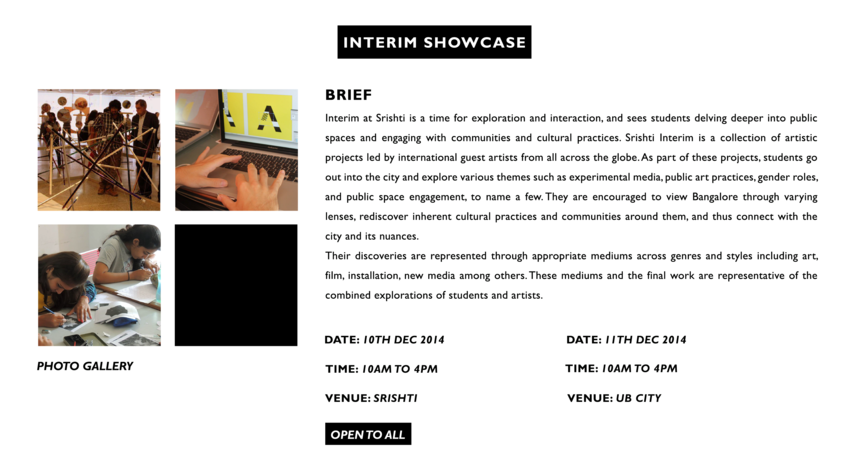
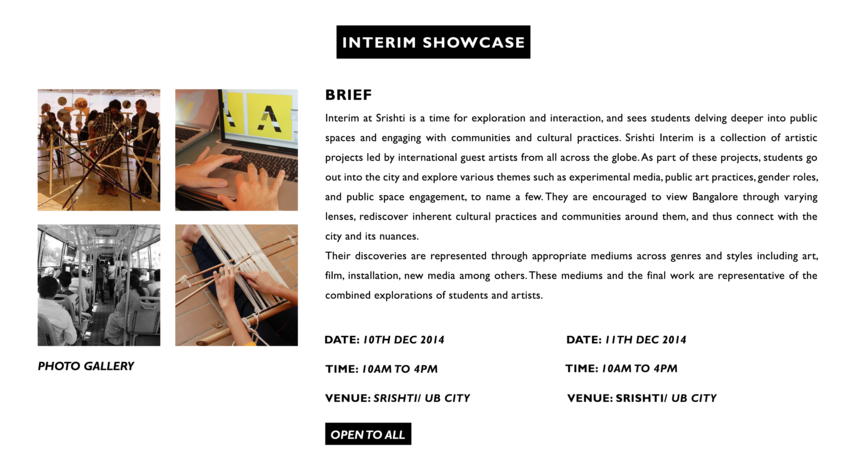
events page done

diff --git a/events.html b/events.html
@@ -57,111 +57,107 @@
 
 	<div class="container" id="mycontainer">
 
-		<img src="images/events.png" width="1200" height="3126" border="0" usemap="#map" />
+		<img src="images/events.png" width="1086" height="2708" border="0" usemap="#map" />
 
 		<map name="map">
 			<!-- #$-:Image map file created by GIMP Image Map plug-in -->
 			<!-- #$-:GIMP Image Map plug-in by Maurits Rijk -->
 			<!-- #$-:Please do not edit lines starting with "#$" -->
 			<!-- #$VERSION:2.3 -->
-			<!-- #$AUTHOR:Mahidhar   -->
-			<area shape="rect" coords="998,548,1084,575" href="events.html" />
-			<area shape="rect" coords="1000,833,1087,858" href="events.html" />
-			<area shape="rect" coords="999,1116,1087,1144" href="events.html" />
-			<area shape="rect" coords="999,1412,1088,1433" href="events.html" />
-			<area shape="rect" coords="996,1885,1090,1914" href="events.html" />
-			<area shape="rect" coords="1000,2356,1088,2381" href="events.html" />
-			<area shape="rect" coords="1000,2835,1089,2862" href="events.html" />
-			<area shape="rect" coords="335,364,510,539" alt="1" data-toggle="modal" data-target="#basicModal1"/>
-			<area shape="rect" coords="911,364,1086,539" alt="2" data-toggle="modal" data-target="#basicModal2"/>
-			<area shape="rect" coords="337,643,512,818" alt="3" data-toggle="modal" data-target="#basicModal3"/>
-			<area shape="rect" coords="911,644,1086,819" alt="4" data-toggle="modal" data-target="#basicModal4"/>
-			<area shape="rect" coords="335,928,510,1103" alt="5" data-toggle="modal" data-target="#basicModal5"/>
-			<area shape="rect" coords="528,928,703,1103" alt="6" data-toggle="modal" data-target="#basicModal6"/>
-			<area shape="rect" coords="337,1218,512,1393" alt="7" data-toggle="modal" data-target="#basicModal7"/>
-			<area shape="rect" coords="528,1216,703,1391" alt="8" data-toggle="modal" data-target="#basicModal8"/>
-			<area shape="rect" coords="719,1217,894,1392" alt="9" data-toggle="modal" data-target="#basicModal9"/>
-			<area shape="rect" coords="336,1515,511,1690" alt="10" data-toggle="modal" data-target="#basicModal10"/>
-			<area shape="rect" coords="527,1515,702,1690" alt="11" data-toggle="modal" data-target="#basicModal11"/>
-			<area shape="rect" coords="720,1516,895,1691" alt="12" data-toggle="modal" data-target="#basicModal12"/>
-			<area shape="rect" coords="911,1516,1086,1691" alt="13" data-toggle="modal" data-target="#basicModal13"/>
-			<area shape="rect" coords="336,1712,511,1887" alt="14" data-toggle="modal" data-target="#basicModal14"/>
-			<area shape="rect" coords="527,1712,702,1887" alt="15" data-toggle="modal" data-target="#basicModal15"/>
-			<area shape="rect" coords="912,1977,1087,2152" alt="16" data-toggle="modal" data-target="#basicModal16"/>
-			<area shape="rect" coords="336,2171,511,2346" alt="17" data-toggle="modal" data-target="#basicModal17"/>
-			<area shape="rect" coords="528,2171,703,2346" alt="18" data-toggle="modal" data-target="#basicModal18"/>
-			<area shape="rect" coords="719,2171,894,2346" alt="19" data-toggle="modal" data-target="#basicModal19"/>
-			<area shape="rect" coords="911,2459,1086,2634" alt="20" data-toggle="modal" data-target="#basicModal20"/>
-			<area shape="rect" coords="336,2647,511,2822" alt="21" data-toggle="modal" data-target="#basicModal21"/>
-			<area shape="rect" coords="336,1976,512,2151" alt="22" data-toggle="modal" data-target="#basicModal22"/>
-			<area shape="rect" coords="529,1976,705,2151" alt="23" data-toggle="modal" data-target="#basicModal23"/>
-			<area shape="rect" coords="719,1975,895,2150" alt="24" data-toggle="modal" data-target="#basicModal24"/>
-			<area shape="rect" coords="336,2458,512,2633" alt="25" data-toggle="modal" data-target="#basicModal25"/>
-			<area shape="rect" coords="528,2458,704,2633" alt="26" data-toggle="modal" data-target="#basicModal26"/>
-			<area shape="rect" coords="719,2458,895,2633" alt="27" data-toggle="modal" data-target="#basicModal27"/>
-			<area shape="rect" coords="520,244,680,277" alt="registernow" href="#" />
-		</map>
+			<!-- #$AUTHOR:Mahidhar    -->
+			<area shape="rect" coords="470,222,614,250" alt="registernow" href="#" />
+			<area shape="rect" coords="908,520,985,543" href="events.html" />
+			<area shape="rect" coords="907,779,985,800" href="events.html" />
+			<area shape="rect" coords="906,1016,985,1040" href="events.html" />
+			<area shape="rect" coords="905,1283,985,1301" href="events.html" />
+			<area shape="rect" coords="905,1726,989,1750" href="events.html" />
+			<area shape="rect" coords="905,2149,984,2170" href="events.html" />
+			<area shape="rect" coords="907,2433,987,2456" href="events.html" />
+			<area shape="rect" coords="907,2678,987,2701" href="events.html" />
+			<area shape="rect" coords="305,330,462,487" alt="1" data-toggle="modal" data-target="#basicModal01"/>
+			<area shape="rect" coords="825,330,982,487" alt="2" data-toggle="modal" data-target="#basicModal02"/>
+			<area shape="rect" coords="305,583,462,740" alt="3" data-toggle="modal" data-target="#basicModal03"/>
+			<area shape="rect" coords="825,583,982,740" alt="4" data-toggle="modal" data-target="#basicModal04"/>
+			<area shape="rect" coords="305,840,462,997" alt="5" data-toggle="modal" data-target="#basicModal05"/>
+			<area shape="rect" coords="305,1103,462,1260" alt="6" data-toggle="modal" data-target="#basicModal06"/>
+			<area shape="rect" coords="478,1102,635,1259" alt="7" data-toggle="modal" data-target="#basicModal07"/>
+			<area shape="rect" coords="305,1372,462,1529" alt="8" data-toggle="modal" data-target="#basicModal08"/>
+			<area shape="rect" coords="478,1373,635,1530" alt="9" data-toggle="modal" data-target="#basicModal09"/>
+			<area shape="rect" coords="652,1372,809,1529" alt="10" data-toggle="modal" data-target="#basicModal10"/>
+			<area shape="rect" coords="825,1373,982,1530" alt="11" data-toggle="modal" data-target="#basicModal11"/>
+			<area shape="rect" coords="305,1548,462,1705" alt="12" data-toggle="modal" data-target="#basicModal12"/>
+			<area shape="rect" coords="305,1789,462,1946" alt="13" data-toggle="modal" data-target="#basicModal13"/>
+			<area shape="rect" coords="478,1788,635,1945" alt="14" data-toggle="modal" data-target="#basicModal14"/>
+			<area shape="rect" coords="652,1788,809,1945" alt="15" data-toggle="modal" data-target="#basicModal15"/>
+			<area shape="rect" coords="825,1788,982,1945" alt="16" data-toggle="modal" data-target="#basicModal16"/>
+			<area shape="rect" coords="305,1964,462,2121" alt="17" data-toggle="modal" data-target="#basicModal17"/>
+			<area shape="rect" coords="479,1965,636,2122" alt="18" data-toggle="modal" data-target="#basicModal18"/>
+			<area shape="rect" coords="305,2224,462,2381" alt="19" data-toggle="modal" data-target="#basicModal19"/>
+			<area shape="rect" coords="478,2224,635,2381" alt="20" data-toggle="modal" data-target="#basicModal20"/>
+			<area shape="rect" coords="653,2225,810,2382" alt="21" data-toggle="modal" data-target="#basicModal21"/>
+			<area shape="rect" coords="825,2225,983,2382" alt="22" data-toggle="modal" data-target="#basicModal22"/>
+			<area shape="rect" coords="306,2497,464,2654" alt="23" data-toggle="modal" data-target="#basicModal23"/>
 		</map>
 
 		<br><br>
 
-		<div class="modal fade" id="basicModal1" tabindex="-1" role="dialog" aria-labelledby="basicModal1" aria-hidden="true">
+		<div class="modal fade" id="basicModal01" tabindex="-1" role="dialog" aria-labelledby="basicModal1" aria-hidden="true">
 			<div class="modal-dialog modal-lg">
 				<div class="modal-content">
 					<div class="modal-body"><img src="images/eventspopup/1.png" alt="" class="popupimg"></div>
 				</div>
 			</div>
 		</div>
-		<div class="modal fade" id="basicModal2" tabindex="-1" role="dialog" aria-labelledby="basicModal2" aria-hidden="true">
+		<div class="modal fade" id="basicModal02" tabindex="-1" role="dialog" aria-labelledby="basicModal2" aria-hidden="true">
 			<div class="modal-dialog modal-lg">
 				<div class="modal-content">
 					<div class="modal-body"><img src="images/eventspopup/2.png" alt="" class="popupimg"></div>
 				</div>
 			</div>
 		</div>
-		<div class="modal fade" id="basicModal3" tabindex="-1" role="dialog" aria-labelledby="basicModal3" aria-hidden="true">
+		<div class="modal fade" id="basicModal03" tabindex="-1" role="dialog" aria-labelledby="basicModal3" aria-hidden="true">
 			<div class="modal-dialog modal-lg">
 				<div class="modal-content">
 					<div class="modal-body"><img src="images/eventspopup/3.png" alt="" class="popupimg"></div>
 				</div>
 			</div>
 		</div>
-		<div class="modal fade" id="basicModal4" tabindex="-1" role="dialog" aria-labelledby="basicModal4" aria-hidden="true">
+		<div class="modal fade" id="basicModal04" tabindex="-1" role="dialog" aria-labelledby="basicModal4" aria-hidden="true">
 			<div class="modal-dialog modal-lg">
 				<div class="modal-content">
 					<div class="modal-body"><img src="images/eventspopup/4.png" alt="" class="popupimg"></div>
 				</div>
 			</div>
 		</div>
-		<div class="modal fade" id="basicModal5" tabindex="-1" role="dialog" aria-labelledby="basicModal5" aria-hidden="true">
+		<div class="modal fade" id="basicModal05" tabindex="-1" role="dialog" aria-labelledby="basicModal5" aria-hidden="true">
 			<div class="modal-dialog modal-lg">
 				<div class="modal-content">
 					<div class="modal-body"><img src="images/eventspopup/5.png" alt="" class="popupimg"></div>
 				</div>
 			</div>
 		</div>
-		<div class="modal fade" id="basicModal6" tabindex="-1" role="dialog" aria-labelledby="basicModal6" aria-hidden="true">
+		<div class="modal fade" id="basicModal06" tabindex="-1" role="dialog" aria-labelledby="basicModal6" aria-hidden="true">
 			<div class="modal-dialog modal-lg">
 				<div class="modal-content">
 					<div class="modal-body"><img src="images/eventspopup/6.png" alt="" class="popupimg"></div>
 				</div>
 			</div>
 		</div>
-		<div class="modal fade" id="basicModal7" tabindex="-1" role="dialog" aria-labelledby="basicModal7" aria-hidden="true">
+		<div class="modal fade" id="basicModal07" tabindex="-1" role="dialog" aria-labelledby="basicModal7" aria-hidden="true">
 			<div class="modal-dialog modal-lg">
 				<div class="modal-content">
 					<div class="modal-body"><img src="images/eventspopup/7.png" alt="" class="popupimg"></div>
 				</div>
 			</div>
 		</div>
-		<div class="modal fade" id="basicModal8" tabindex="-1" role="dialog" aria-labelledby="basicModal8" aria-hidden="true">
+		<div class="modal fade" id="basicModal08" tabindex="-1" role="dialog" aria-labelledby="basicModal8" aria-hidden="true">
 			<div class="modal-dialog modal-lg">
 				<div class="modal-content">
 					<div class="modal-body"><img src="images/eventspopup/8.png" alt="" class="popupimg"></div>
 				</div>
 			</div>
 		</div>
-		<div class="modal fade" id="basicModal9" tabindex="-1" role="dialog" aria-labelledby="basicModal9" aria-hidden="true">
+		<div class="modal fade" id="basicModal09" tabindex="-1" role="dialog" aria-labelledby="basicModal9" aria-hidden="true">
 			<div class="modal-dialog modal-lg">
 				<div class="modal-content">
 					<div class="modal-body"><img src="images/eventspopup/9.png" alt="" class="popupimg"></div>
@@ -241,56 +237,28 @@
 		<div class="modal fade" id="basicModal20" tabindex="-1" role="dialog" aria-labelledby="basicModal20" aria-hidden="true">
 			<div class="modal-dialog modal-lg">
 				<div class="modal-content">
-					<div class="modal-body"><img src="images/eventspopup/17.png" alt="" class="popupimg"></div>
+					<div class="modal-body"><img src="images/eventspopup/20.png" alt="" class="popupimg"></div>
 				</div>
 			</div>
 		</div>
 		<div class="modal fade" id="basicModal21" tabindex="-1" role="dialog" aria-labelledby="basicModal21" aria-hidden="true">
 			<div class="modal-dialog modal-lg">
 				<div class="modal-content">
-					<div class="modal-body"><img src="images/eventspopup/19.png" alt="" class="popupimg"></div>
+					<div class="modal-body"><img src="images/eventspopup/21.png" alt="" class="popupimg"></div>
 				</div>
 			</div>
 		</div>
 		<div class="modal fade" id="basicModal22" tabindex="-1" role="dialog" aria-labelledby="basicModal22" aria-hidden="true">
 			<div class="modal-dialog modal-lg">
 				<div class="modal-content">
-					<div class="modal-body"><img src="images/eventspopup/20.png" alt="" class="popupimg"></div>
+					<div class="modal-body"><img src="images/eventspopup/22.png" alt="" class="popupimg"></div>
 				</div>
 			</div>
 		</div>
 		<div class="modal fade" id="basicModal23" tabindex="-1" role="dialog" aria-labelledby="basicModal23" aria-hidden="true">
 			<div class="modal-dialog modal-lg">
 				<div class="modal-content">
-					<div class="modal-body"><img src="images/eventspopup/21.png" alt="" class="popupimg"></div>
-				</div>
-			</div>
-		</div>
-		<div class="modal fade" id="basicModal24" tabindex="-1" role="dialog" aria-labelledby="basicModal24" aria-hidden="true">
-			<div class="modal-dialog modal-lg">
-				<div class="modal-content">
-					<div class="modal-body"><img src="images/eventspopup/22.png" alt="" class="popupimg"></div>
-				</div>
-			</div>
-		</div>
-		<div class="modal fade" id="basicModal25" tabindex="-1" role="dialog" aria-labelledby="basicModal25" aria-hidden="true">
-			<div class="modal-dialog modal-lg">
-				<div class="modal-content">
-					<div class="modal-body"><img src="images/eventspopup/20.png" alt="" class="popupimg"></div>
-				</div>
-			</div>
-		</div>
-		<div class="modal fade" id="basicModal26" tabindex="-1" role="dialog" aria-labelledby="basicModal26" aria-hidden="true">
-			<div class="modal-dialog modal-lg">
-				<div class="modal-content">
-					<div class="modal-body"><img src="images/eventspopup/21.png" alt="" class="popupimg"></div>
-				</div>
-			</div>
-		</div>
-		<div class="modal fade" id="basicModal27" tabindex="-1" role="dialog" aria-labelledby="basicModal27" aria-hidden="true">
-			<div class="modal-dialog modal-lg">
-				<div class="modal-content">
-					<div class="modal-body"><img src="images/eventspopup/22.png" alt="" class="popupimg"></div>
+					<div class="modal-body"><img src="images/eventspopup/23.png" alt="" class="popupimg"></div>
 				</div>
 			</div>
 		</div>
